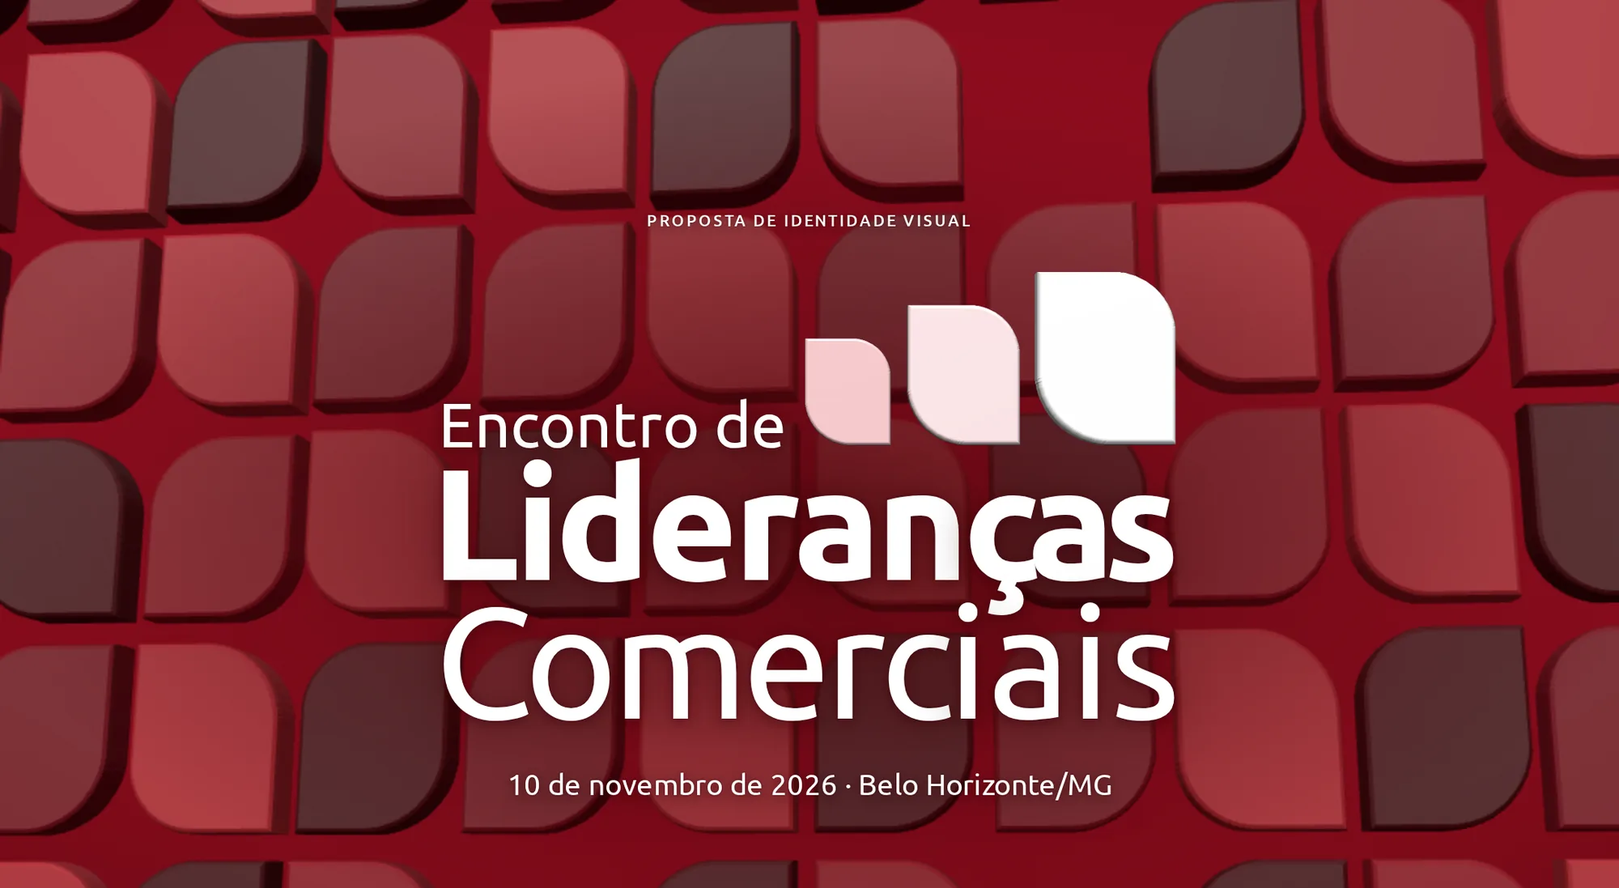
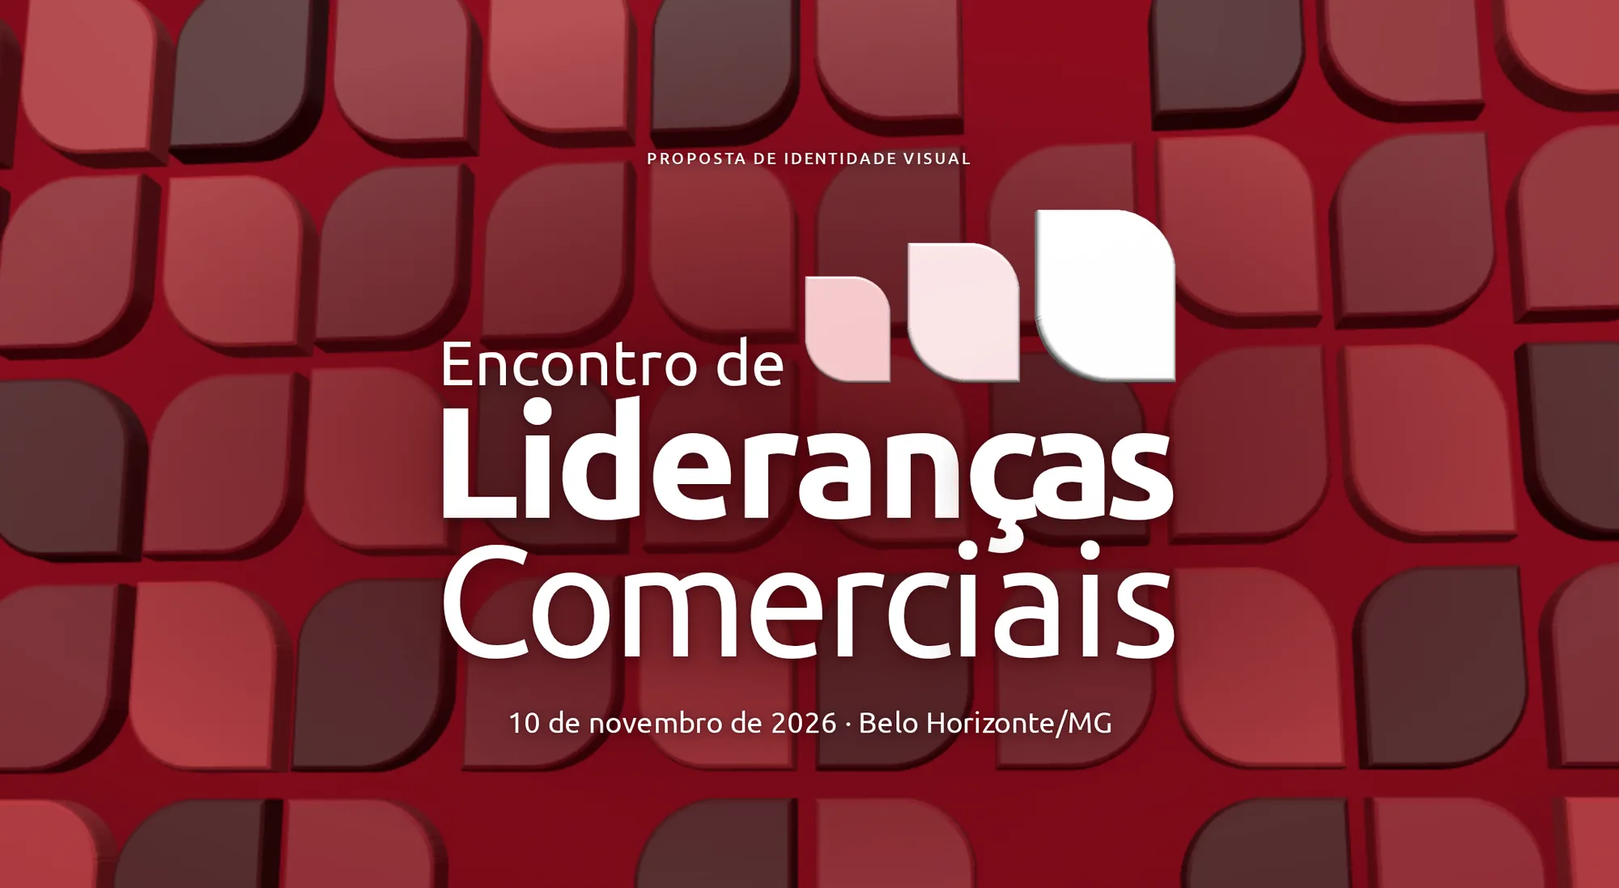
Encontro: abertura 3D que mexe com o mouse e estampa passando sem parar
- A abertura do case agora é a parede 3D do site da proposta: as peças balançam e viram com o mouse, e na entrada três peças saem da parede e encaixam no título (three.js, carregado só nessa página; sem 3D fica a imagem parada)
- A estampa passa sem parar em duas faixas, em sentidos contrários, como no site da proposta

Claude-Session: https://claude.ai/code/session_01WmbB2ZvvGCeAtRYjpAiiE5

diff --git a/src/js/modules/parede.js b/src/js/modules/parede.js
@@ -1,0 +1,174 @@
+// Parede 3D da abertura do Encontro de Lideranças (mídia com `parede` em src/data/projects.js): a mesma cena do site
+// da proposta (cauadorn.github.io/encontro-lideranca-comercial). A parede de peças do squircle balança e vira com o
+// mouse; na entrada, três peças saem da parede e encaixam em cima do título. A cena é montada como se a tela tivesse
+// 1440 x 900 (o tamanho em que o título foi recortado do site) e só a faixa de 790 px do meio aparece, em qualquer
+// largura. Sem WebGL, a imagem parada (abertura.webp) fica no lugar (pedido da Emilly em 30/10).
+import * as THREE from 'three';
+import { RoomEnvironment } from 'three/addons/environments/RoomEnvironment.js';
+import gsap from 'gsap';
+import FORMAS from '../../data/formas-encontro.js';
+
+const W = 1440, H = 900, CORTE = { y: 55, h: 790 };
+// onde ficam as três peças do selo no título do site (left, top, largura, altura em px, tela de 1440 x 900)
+const ALVOS = [[716.09, 300.89, 76.2, 96.14], [807.05, 271.42, 99.56, 125.61], [921.38, 241.97, 122.91, 155.08]];
+const COR_PECA = ['#F6C9CD', '#FBE4E6', '#FFFFFF'];
+const SEM_ROSA = { '#F6C9CD': '#A3142A' }; // na parede, o rosa-claro vira um vermelho fundo (não apaga o título)
+const PAREDE_Z = -520;
+const D = (H / 2) / Math.tan(THREE.MathUtils.degToRad(15)); // em z = 0, 1 unidade = 1 px da tela de 1440 x 900
+const F1 = FORMAS.formas.find((f) => f.linha === 0 && f.col === 0); // a forma do selo
+const k1 = FORMAS.formas.indexOf(F1);
+
+function palco(canvas) {
+  const r = new THREE.WebGLRenderer({ canvas, antialias: true, alpha: true, powerPreference: 'high-performance' });
+  r.setPixelRatio(Math.min(devicePixelRatio, 1.6));
+  r.outputColorSpace = THREE.SRGBColorSpace;
+  r.toneMapping = THREE.NoToneMapping;
+  const cena = new THREE.Scene();
+  cena.environment = new THREE.PMREMGenerator(r).fromScene(new RoomEnvironment(), 0.04).texture;
+  const luz = new THREE.DirectionalLight(0xffffff, 1.35);
+  luz.position.set(-0.6, 1, 1.2);
+  cena.add(luz, new THREE.AmbientLight(0xffffff, 0.22));
+  const cam = new THREE.PerspectiveCamera(30, W / H, 10, 20000);
+  cam.position.set(0, 0, D);
+  cam.setViewOffset(W, H, 0, CORTE.y, W, CORTE.h);
+  return { r, cena, cam, canvas };
+}
+
+// o contorno real de cada forma, extrudado com chanfro, do mesmo tamanho da forma plana
+function geometria(f, unidade, passos = 5, fundo = 0.24) {
+  const s = new THREE.Shape(), bev = 0.035;
+  f.pts.forEach((p, i) => { const x = (p[0] - f.w / 2) / unidade, y = -(p[1] - f.h / 2) / unidade; i ? s.lineTo(x, y) : s.moveTo(x, y); });
+  const g = new THREE.ExtrudeGeometry(s, { depth: fundo, bevelEnabled: true, bevelThickness: 0.05, bevelSize: bev, bevelSegments: passos, curveSegments: 4 });
+  const sw = f.w / unidade, k = sw / (sw + 2 * bev);
+  g.translate(0, 0, -fundo / 2); g.scale(k, k, 1); g.computeVertexNormals();
+  return g;
+}
+
+export function initParede(fig) {
+  const viva = document.createElement('div');
+  viva.className = 'parede__viva';
+  viva.setAttribute('aria-hidden', 'true');
+  viva.innerHTML = `<canvas class="parede__fundo"></canvas><div class="parede__veu"></div><img class="parede__titulo" src="${fig.dataset.parede}" alt="" decoding="async"><canvas class="parede__frente"></canvas>`;
+  fig.append(viva);
+  const [cFundo, , titulo, cFrente] = viva.children;
+
+  let A, B;
+  try { A = palco(cFundo); B = palco(cFrente); } catch (e) { viva.remove(); return; } // sem WebGL: fica a imagem
+
+  // parede: uma instância por forma, ladrilhada
+  const meiaH = Math.tan(THREE.MathUtils.degToRad(15)) * (D - PAREDE_Z), meiaW = meiaH * W / H;
+  const tileW = W * 0.42, s = tileW / FORMAS.tile[0], tileH = FORMAS.tile[1] * s;
+  const nx = Math.ceil((meiaW * 2) / tileW) + 3, ny = Math.ceil((meiaH * 2) / tileH) + 3, tiles = [];
+  for (let iy = -1; iy < ny; iy++) for (let ix = -1; ix < nx; ix++) tiles.push([-meiaW + ix * tileW - tileW * 0.18, meiaH - iy * tileH + tileH * 0.12]);
+  const escParede = s * 321;
+  const parede = new THREE.Group();
+  A.cena.add(parede);
+  const inst = FORMAS.formas.map((f) => {
+    const mat = new THREE.MeshStandardMaterial({ color: new THREE.Color(SEM_ROSA[f.cor.toUpperCase()] || f.cor).multiplyScalar(0.66), roughness: 0.55, metalness: 0, envMapIntensity: 0.28 });
+    const im = new THREE.InstancedMesh(geometria(f, 321, 2), mat, tiles.length);
+    im.frustumCulled = false;
+    im.userData = { base: tiles.map(([ox, oy]) => new THREE.Vector3(ox + (f.x + f.w / 2) * s, oy - (f.y + f.h / 2) * s, PAREDE_Z)), fase: tiles.map(() => Math.random() * 6.283) };
+    parede.add(im);
+    return im;
+  });
+  // as três que saem: a forma do selo mais perto do centro, da esquerda para a direita
+  const saidas = inst[k1].userData.base.map((p, idx) => ({ idx, p })).sort((a, b) => Math.hypot(a.p.x, a.p.y * 1.4) - Math.hypot(b.p.x, b.p.y * 1.4))
+    .slice(0, 3).sort((a, b) => a.p.x - b.p.x).map((c) => c.idx);
+
+  // as três peças do selo (palco da frente, por cima do título)
+  const geoPeca = geometria(F1, F1.w, 5, 0.14);
+  const pecas = COR_PECA.map((c) => {
+    const m = new THREE.Mesh(geoPeca, new THREE.MeshPhysicalMaterial({ color: c, emissive: c, emissiveIntensity: 0.1, roughness: 0.34, envMapIntensity: 0.55, metalness: 0, clearcoat: 1, clearcoatRoughness: 0.12 }));
+    m.visible = false;
+    B.cena.add(m);
+    return m;
+  });
+  const alvos = ALVOS.map(([l, t, w, h]) => ({ p: new THREE.Vector3(l + w / 2 - W / 2, H / 2 - (t + h / 2), 0), w }));
+
+  function medir() {
+    const w = fig.clientWidth, h = fig.clientHeight;
+    if (!w || !h) return;
+    for (const P of [A, B]) P.r.setSize(w, h, false);
+  }
+  medir();
+  new ResizeObserver(medir).observe(fig);
+
+  // mouse: a posição em cima da imagem (de -0,5 a 0,5) vira a parede; sem mouse (celular), ela balança sozinha
+  const E = { forma: 0, tx: 0, ty: 0 };
+  const semMouse = matchMedia('(hover: none)').matches;
+  addEventListener('pointermove', (ev) => {
+    const r = fig.getBoundingClientRect();
+    E.tx = Math.max(-0.6, Math.min(0.6, (ev.clientX - r.left) / r.width - 0.5));
+    E.ty = Math.max(-0.6, Math.min(0.6, (ev.clientY - r.top) / r.height - 0.5));
+  }, { passive: true });
+
+  // entrada (a primeira vez que aparece): a parede chega, as peças saem dela e encaixam no título, o texto sobe
+  let entrou = false;
+  function entrada() {
+    entrou = true;
+    fig.classList.add('is-viva');
+    const tl = gsap.timeline({ delay: 0.2 });
+    tl.fromTo(parede.position, { z: -300 }, { z: 0, duration: 1.5, ease: 'power3.out' }, 0);
+    tl.fromTo(cFundo, { opacity: 0 }, { opacity: 1, duration: 1.1, ease: 'power1.out' }, 0);
+    tl.to(E, { forma: 1, duration: 2.4, ease: 'none' }, 0.6);
+    tl.fromTo(titulo, { opacity: 0, y: 14, filter: 'blur(10px)' }, { opacity: 1, y: 0, filter: 'blur(0px)', clearProps: 'filter,transform', duration: 1, ease: 'power3.out' }, 2.1);
+  }
+
+  const m4 = new THREE.Matrix4(), q0 = new THREE.Quaternion(), sv = new THREE.Vector3(), pv = new THREE.Vector3();
+  const ini = new THREE.Vector3(), meio = new THREE.Vector3(), q1 = new THREE.Vector3(), q2 = new THREE.Vector3(), pos = new THREE.Vector3();
+  const cIni = new THREE.Color(F1.cor).multiplyScalar(0.7), cA = new THREE.Color();
+  const prog = (i) => Math.min(1, Math.max(0, (E.forma - i * 0.13) / 0.62)); // cada peça sai um pouco depois da outra
+  let mx = 0, my = 0, ultimo = 0, media = 16, leve = false, raf = 0;
+  function quadro(agora) {
+    raf = requestAnimationFrame(quadro);
+    const t = agora / 1000;
+    if (ultimo) media += ((agora - ultimo) - media) * 0.05;
+    ultimo = agora;
+    if (!leve && t > 1.5 && media > 34) { leve = true; A.r.setPixelRatio(0.75); medir(); } // aparelho lento: parede em resolução menor
+    if (semMouse) { E.tx = Math.sin(t * 0.35) * 0.35; E.ty = Math.sin(t * 0.27) * 0.25; }
+    mx += (E.tx - mx) * 0.06; my += (E.ty - my) * 0.06;
+
+    parede.rotation.y = -0.1 + mx * 0.1;
+    parede.rotation.x = -0.2 + my * 0.06;
+    parede.updateMatrixWorld(true);
+    inst.forEach((im, k) => {
+      const u = im.userData;
+      for (let j = 0; j < u.base.length; j++) {
+        const b = u.base[j];
+        pv.set(b.x, b.y, b.z + Math.sin(t * 0.7 + u.fase[j]) * 9);
+        const sai = k === k1 ? saidas.indexOf(j) : -1;
+        const esc = sai >= 0 && prog(sai) > 0 ? 1e-4 : escParede; // a peça que saiu deixa o buraco
+        sv.set(esc, esc, esc);
+        m4.compose(pv, q0, sv);
+        im.setMatrixAt(j, m4);
+      }
+      im.instanceMatrix.needsUpdate = true;
+    });
+    A.r.render(A.cena, A.cam);
+
+    pecas.forEach((m, i) => {
+      const p = prog(i), pe = 1 - Math.pow(1 - p, 3);
+      ini.copy(inst[k1].userData.base[saidas[i]]).applyMatrix4(parede.matrixWorld);
+      const alvo = alvos[i];
+      meio.lerpVectors(ini, alvo.p, 0.5); meio.z = 300 + i * 70; // sobem em arco, na direção de quem olha
+      q1.lerpVectors(ini, meio, pe); q2.lerpVectors(meio, alvo.p, pe); pos.lerpVectors(q1, q2, pe);
+      m.position.copy(pos);
+      m.scale.setScalar(THREE.MathUtils.lerp(escParede * F1.w / 321, alvo.w, pe));
+      const voo = Math.sin(pe * Math.PI);
+      m.rotation.set(voo * 0.9 + my * 0.3, pe * Math.PI * 2 * (i % 2 ? -1 : 1) + mx * 0.4, voo * 0.25 * (i - 1));
+      cA.set(COR_PECA[i]);
+      m.material.color.copy(cIni).lerp(cA, Math.min(1, pe * 1.3));
+      m.material.emissive.copy(m.material.color);
+      m.visible = p > 0;
+    });
+    B.r.render(B.cena, B.cam);
+  }
+
+  // só desenha enquanto aparece na tela
+  new IntersectionObserver(([e]) => {
+    if (e.isIntersecting) {
+      if (!entrou) entrada();
+      if (!raf) raf = requestAnimationFrame(quadro);
+    } else if (raf) { cancelAnimationFrame(raf); raf = 0; ultimo = 0; }
+  }, { threshold: 0.25 }).observe(fig);
+}

diff --git a/src/data/formas-encontro.js b/src/data/formas-encontro.js
@@ -1,0 +1,4 @@
+// Formas da estampa do Encontro de Lideranças (contornos reais do squircle da CREDFRANCO), copiadas do site da
+// proposta (cauadorn.github.io/encontro-lideranca-comercial/assets/formas.js). Usadas pela parede 3D do case.
+export default {"tile":[1086,1817],"formas":[{"id":1,"linha":0,"col":0,"x":0,"y":0,"w":321,"h":405,"cor":"#EF3D48","pts":[[0,0],[0,250],[1,251],[1,258],[2,259],[4,273],[11,295],[22,318],[34,336],[44,348],[56,360],[80,378],[105,391],[133,400],[137,400],[143,402],[149,402],[150,403],[160,403],[161,404],[320,404],[320,129],[319,128],[318,116],[311,92],[302,73],[293,59],[285,49],[271,35],[252,21],[228,9],[204,2],[191,1],[190,0]]},{"id":2,"linha":0,"col":1,"x":362,"y":0,"w":322,"h":405,"cor":"#5E0912","pts":[[321,0],[154,0],[153,1],[146,1],[145,2],[135,3],[114,9],[84,23],[69,33],[58,42],[37,64],[21,88],[10,112],[4,132],[2,147],[1,148],[1,156],[0,157],[0,404],[183,404],[184,403],[201,402],[202,401],[206,401],[224,396],[248,385],[267,372],[274,366],[289,350],[297,339],[309,317],[316,297],[316,294],[318,289],[318,284],[319,283],[319,278],[320,277],[320,266],[321,265]]},{"id":3,"linha":0,"col":2,"x":724,"y":0,"w":321,"h":405,"cor":"#C21A30","pts":[[0,0],[0,250],[1,251],[1,258],[2,259],[3,269],[9,290],[22,318],[34,336],[43,347],[56,360],[80,378],[105,391],[133,400],[137,400],[143,402],[149,402],[150,403],[160,403],[161,404],[320,404],[320,130],[319,129],[319,122],[318,121],[317,112],[311,92],[302,73],[289,54],[272,36],[252,21],[235,12],[233,12],[225,8],[204,2],[191,1],[190,0]]},{"id":4,"linha":1,"col":0,"x":0,"y":454,"w":321,"h":405,"cor":"#C21A30","pts":[[320,0],[157,0],[156,1],[148,1],[147,2],[136,3],[109,11],[81,25],[58,42],[41,59],[33,69],[22,86],[9,114],[3,135],[2,145],[1,146],[1,153],[0,154],[0,404],[187,404],[188,403],[202,402],[227,395],[253,382],[274,366],[292,346],[304,327],[312,309],[317,292],[317,288],[319,282],[319,275],[320,274]]},{"id":5,"linha":1,"col":1,"x":362,"y":454,"w":322,"h":405,"cor":"#EF3D48","pts":[[0,0],[0,246],[1,247],[1,255],[2,256],[2,262],[3,263],[5,276],[15,304],[24,321],[38,341],[56,360],[71,372],[83,380],[107,392],[132,400],[147,402],[148,403],[156,403],[157,404],[321,404],[321,138],[320,137],[320,127],[319,126],[318,115],[312,94],[301,71],[290,55],[271,35],[255,23],[230,10],[202,2],[189,1],[188,0]]},{"id":6,"linha":1,"col":2,"x":724,"y":454,"w":321,"h":405,"cor":"#F6C9CD","pts":[[320,0],[157,0],[156,1],[148,1],[147,2],[136,3],[109,11],[81,25],[59,41],[36,65],[23,84],[12,106],[5,127],[3,139],[2,140],[2,145],[1,146],[1,153],[0,154],[0,404],[187,404],[188,403],[202,402],[227,395],[248,385],[267,372],[275,365],[288,351],[300,334],[310,314],[316,296],[317,288],[318,287],[318,282],[319,281],[319,275],[320,274]]},{"id":7,"linha":2,"col":0,"x":0,"y":908,"w":321,"h":405,"cor":"#5E0912","pts":[[0,0],[0,274],[1,275],[1,282],[2,283],[3,292],[9,312],[21,336],[31,350],[48,368],[62,379],[75,387],[95,396],[112,401],[121,402],[122,403],[129,403],[130,404],[320,404],[320,154],[319,153],[319,146],[318,145],[317,135],[311,114],[298,86],[286,68],[277,57],[264,44],[240,26],[215,13],[187,4],[183,4],[177,2],[171,2],[170,1],[160,1],[159,0]]},{"id":8,"linha":2,"col":1,"x":362,"y":908,"w":322,"h":405,"cor":"#C21A30","pts":[[321,0],[161,0],[160,1],[150,1],[149,2],[133,4],[103,14],[77,28],[61,40],[51,49],[36,66],[23,85],[11,110],[3,137],[3,142],[1,149],[1,157],[0,158],[0,404],[191,404],[192,403],[204,402],[228,395],[254,382],[269,371],[291,348],[305,326],[312,310],[315,301],[315,298],[317,294],[317,290],[319,284],[319,278],[320,277],[320,267],[321,266]]},{"id":9,"linha":2,"col":2,"x":724,"y":908,"w":321,"h":405,"cor":"#EF3D48","pts":[[0,0],[0,275],[1,276],[2,288],[9,312],[18,331],[27,345],[35,355],[48,368],[68,383],[85,392],[112,401],[116,401],[122,403],[129,403],[130,404],[320,404],[320,154],[319,153],[319,146],[318,145],[316,131],[309,109],[298,86],[286,68],[277,57],[264,44],[240,26],[215,13],[187,4],[183,4],[177,2],[171,2],[170,1],[160,1],[159,0]]},{"id":10,"linha":3,"col":0,"x":0,"y":1363,"w":321,"h":405,"cor":"#F6C9CD","pts":[[320,0],[128,0],[127,1],[121,1],[120,2],[107,4],[92,9],[73,18],[59,27],[49,35],[30,55],[18,73],[9,92],[3,112],[3,116],[1,122],[1,129],[0,130],[0,404],[157,404],[158,403],[169,403],[170,402],[176,402],[177,401],[182,401],[187,399],[191,399],[215,391],[240,378],[253,369],[265,359],[282,341],[299,316],[309,295],[316,273],[316,269],[317,268],[317,264],[319,258],[319,251],[320,250]]},{"id":11,"linha":3,"col":1,"x":362,"y":1362,"w":322,"h":406,"cor":"#EF3D48","pts":[[0,0],[0,271],[1,272],[1,280],[2,281],[3,291],[10,314],[20,334],[31,350],[48,368],[68,383],[87,393],[97,396],[100,398],[103,398],[115,402],[120,402],[127,404],[139,404],[140,405],[321,405],[321,162],[320,161],[320,151],[319,150],[319,144],[318,143],[315,126],[308,106],[297,84],[283,64],[264,44],[240,26],[217,14],[215,14],[201,8],[198,8],[186,4],[176,3],[175,2],[169,2],[168,1],[154,1],[153,0]]},{"id":12,"linha":3,"col":2,"x":724,"y":1363,"w":321,"h":405,"cor":"#5E0912","pts":[[320,0],[128,0],[127,1],[121,1],[120,2],[111,3],[97,7],[71,19],[50,34],[30,55],[18,73],[11,87],[5,104],[5,107],[2,116],[1,128],[0,129],[0,404],[157,404],[158,403],[169,403],[170,402],[182,401],[183,400],[198,397],[210,392],[215,391],[235,381],[258,365],[265,359],[282,341],[299,316],[309,295],[317,268],[318,258],[319,257],[319,250],[320,249]]}]}
+;

diff --git a/projetos/encontro-liderancas-comerciais.html b/projetos/encontro-liderancas-comerciais.html
@@ -42,7 +42,7 @@
         <p class="cap__texto">O conceito é ascensão: liderança é o que faz o resultado subir. O selo mostra isso com três peças que crescem como um gráfico e chegam ao vermelho mais forte no topo.</p>
       </header>
       <div class="cap__midias">
-        <figure class="cap__midia cap__midia--cheia"><img src="%BASE_URL%img/projetos/encontro-liderancas-comerciais/abertura.webp" alt="Encontro de Lideranças: abertura da proposta: o selo do Encontro de Lideranças Comerciais sobre a estampa" width="2000" height="1097" loading="lazy" decoding="async"></figure>
+        <figure class="cap__midia cap__midia--cheia parede" data-parede="%BASE_URL%img/projetos/encontro-liderancas-comerciais/abertura-titulo.webp"><img src="%BASE_URL%img/projetos/encontro-liderancas-comerciais/abertura.webp" alt="Encontro de Lideranças: abertura da proposta: o selo do Encontro de Lideranças Comerciais sobre a estampa" width="2000" height="1097" decoding="async"></figure>
         <figure class="cap__midia cap__midia--meia"><img src="%BASE_URL%img/projetos/encontro-liderancas-comerciais/ascensao.webp" alt="Encontro de Lideranças: as três peças do selo subindo como um gráfico" width="1260" height="660" loading="lazy" decoding="async"></figure>
         <figure class="cap__midia cap__midia--meia"><img src="%BASE_URL%img/projetos/encontro-liderancas-comerciais/frase.webp" alt="Encontro de Lideranças: a frase do encontro: liderança que move resultados" width="1400" height="701" loading="lazy" decoding="async"></figure>
       </div>
@@ -65,7 +65,7 @@
         <p class="cap__texto">As formas do grafismo, cada uma num tom da convenção, do vinho ao rosa. A estampa abre o painel, o telão, o bloquinho e o copo.</p>
       </header>
       <div class="cap__midias">
-        <figure class="cap__midia cap__midia--cheia"><img src="%BASE_URL%img/projetos/encontro-liderancas-comerciais/estampa-faixa.webp" alt="Encontro de Lideranças: a estampa feita com as formas do squircle" width="2000" height="736" loading="lazy" decoding="async"></figure>
+        <figure class="cap__midia cap__midia--cheia faixas" role="img" aria-label="Encontro de Lideranças: a estampa feita com as formas do squircle, passando" style="--faixa: url('%BASE_URL%img/projetos/encontro-liderancas-comerciais/estampa-tile.webp')"><div class="faixa"></div><div class="faixa faixa--b"></div></figure>
         <figure class="cap__midia cap__midia--cheia"><img src="%BASE_URL%img/projetos/encontro-liderancas-comerciais/cores.webp" alt="Encontro de Lideranças: a paleta, do vinho ao rosa, com dois cinzas" width="1740" height="495" loading="lazy" decoding="async"></figure>
         <figure class="cap__midia cap__midia--meia"><img src="%BASE_URL%img/projetos/encontro-liderancas-comerciais/estampa.webp" alt="Encontro de Lideranças: a estampa em pé" width="1086" height="1817" loading="lazy" decoding="async"></figure>
         <figure class="cap__midia cap__midia--meia"><img src="%BASE_URL%img/projetos/encontro-liderancas-comerciais/painel.webp" alt="Encontro de Lideranças: painel para fotos com a estampa e o selo" width="1200" height="2150" loading="lazy" decoding="async"></figure>

diff --git a/src/data/projects.js b/src/data/projects.js
@@ -24,6 +24,8 @@
 // capitulos: (opcional) case especial em capítulos, no lugar da galeria: [{ rotulo, titulo (com <em> na palavra em
 //   serif), texto, midias: [{ a: 'arquivo.webp' ou 'loop.mp4', l: 'cheia' | 'meia' | 'larga' | 'estreita', alt }],
 //   botao: { href, texto } }]; .mp4 = loop mudo (com .webm e -poster.webp do mesmo nome) que só toca na tela
+//   Mídias especiais do Encontro de Lideranças: { a, parede: 'titulo.webp' } = a parede 3D que mexe com o mouse
+//   (src/js/modules/parede.js); { faixa: 'ladrilho.webp' } = a estampa passando sem parar, em duas faixas
 // colaboracao: (opcional) projeto feito em parceria: { nome, cargo, arroba, foto, fotoAlt, texto, site, case, botao, link }.
 //   Aparece "Em colaboração com <nome>" no topo (link para o site) e, no fim do case, um cartão com a foto na moldura de
 //   seleção, o texto e os botões para o case no site da pessoa (`case`) e para o site dela (`site`)
@@ -547,7 +549,8 @@ export const projects = [
         titulo: 'Liderança que <em>move resultados</em>',
         texto: 'O conceito é ascensão: liderança é o que faz o resultado subir. O selo mostra isso com três peças que crescem como um gráfico e chegam ao vermelho mais forte no topo.',
         midias: [
-          { a: 'abertura.webp', alt: 'abertura da proposta: o selo do Encontro de Lideranças Comerciais sobre a estampa' },
+          // a abertura mexe com o mouse, como no site da proposta (pedido da Emilly em 30/10)
+          { a: 'abertura.webp', parede: 'abertura-titulo.webp', alt: 'abertura da proposta: o selo do Encontro de Lideranças Comerciais sobre a estampa' },
           { a: 'ascensao.webp', l: 'meia', alt: 'as três peças do selo subindo como um gráfico' },
           { a: 'frase.webp', l: 'meia', alt: 'a frase do encontro: liderança que move resultados' },
         ],
@@ -566,7 +569,8 @@ export const projects = [
         titulo: 'A estampa <em>do encontro</em>',
         texto: 'As formas do grafismo, cada uma num tom da convenção, do vinho ao rosa. A estampa abre o painel, o telão, o bloquinho e o copo.',
         midias: [
-          { a: 'estampa-faixa.webp', alt: 'a estampa feita com as formas do squircle' },
+          // a estampa passa sem parar, em duas faixas (pedido da Emilly em 30/10)
+          { faixa: 'estampa-tile.webp', alt: 'a estampa feita com as formas do squircle, passando' },
           { a: 'cores.webp', alt: 'a paleta, do vinho ao rosa, com dois cinzas' },
           { a: 'estampa.webp', l: 'meia', alt: 'a estampa em pé' },
           { a: 'painel.webp', l: 'meia', alt: 'painel para fotos com a estampa e o selo' },

diff --git a/src/styles/case.css b/src/styles/case.css
@@ -201,6 +201,22 @@
 .cap__midia--larga { grid-column: span 8; }
 .cap__midia--estreita { grid-column: span 4; }
 .cap__midia img, .cap__midia video { display: block; width: 100%; height: auto; border-radius: var(--r-s); background: var(--ink); box-shadow: 0 20px 40px -24px rgba(42, 20, 51, .6); }
+/* parede 3D da abertura do Encontro (src/js/modules/parede.js): por cima da imagem parada, o fundo vermelho, a parede,
+   o véu atrás do título, o título e as peças do selo; aparece quando o 3D começa */
+.parede { position: relative; border-radius: var(--r-s); overflow: hidden; box-shadow: 0 20px 40px -24px rgba(42, 20, 51, .6); }
+.parede__viva { position: absolute; inset: 0; opacity: 0; visibility: hidden; background: radial-gradient(120% 102.5% at 50% 38.6%, #B3132A 0%, #8C0C1D 50%, #5E0912 100%); }
+.parede.is-viva .parede__viva { opacity: 1; visibility: visible; }
+.parede__viva > * { position: absolute; inset: 0; width: 100%; height: 100%; }
+.cap__midia .parede__viva img { border-radius: 0; background: none; box-shadow: none; }
+.parede__veu { background: radial-gradient(52% 50.1% at 50% 50%, rgba(80, 6, 14, .82) 0%, rgba(80, 6, 14, .5) 50%, rgba(80, 6, 14, .12) 100%); }
+.parede__frente { pointer-events: none; }
+/* estampa que passa sem parar (mídia com `faixa`), como no site da proposta: duas faixas em sentidos contrários */
+.faixas { display: grid; gap: 10px; }
+/* --ladrilho: 420 px no computador (como no site); no celular diminui junto com a tela, para caber mais de uma peça */
+.faixa { --ladrilho: clamp(180px, 35vw, 420px); height: calc(var(--ladrilho) * .62); border-radius: var(--r-s); background: var(--faixa) 0 0 / var(--ladrilho) auto repeat-x; animation: faixa-corre 30s linear infinite; }
+.faixa--b { background-position-y: 100%; animation-duration: 36s; animation-direction: reverse; }
+@keyframes faixa-corre { to { background-position-x: calc(-1 * var(--ladrilho)); } }
+@media (prefers-reduced-motion: reduce) { .faixa { animation: none; } }
 @media (max-width: 720px) {
   .cap__midia--meia, .cap__midia--larga { grid-column: span 12; }
   .cap__midia--estreita { grid-column: 3 / span 8; }

diff --git a/src/js/page.js b/src/js/page.js
@@ -20,6 +20,9 @@ initWorks();
 initRings(); // anel 3D dos posts nas páginas de social media
 initIg(); // carrosséis de Instagram que passam para o lado
 initLoops(reduced); // vídeos curtos dos cases em capítulos: tocam só na tela
+// parede 3D da abertura do Encontro de Lideranças: o three.js só carrega na página que tem a parede
+const parede = document.querySelector('[data-parede]');
+if (parede && !reduced) import('./modules/parede.js').then((m) => m.initParede(parede));
 initReveals(reduced);
 
 // entrada do topo da página

diff --git a/vite.config.js b/vite.config.js
@@ -47,6 +47,7 @@ export default {
   plugins: [htmlPartials()],
   // versão de cada capa para o carrossel da home (carousel.js): capa trocada = endereço novo, o navegador não usa a antiga
   define: { __CAPAS__: JSON.stringify(versoesDasCapas(root, projects)) },
-  build: { rollupOptions: { input: pages } },
+  // o three.js da parede 3D do Encontro (src/js/modules/parede.js) passa de 500 kB, mas só carrega naquela página
+  build: { rollupOptions: { input: pages }, chunkSizeWarningLimit: 600 },
   server: { port: 5178 },
 };
